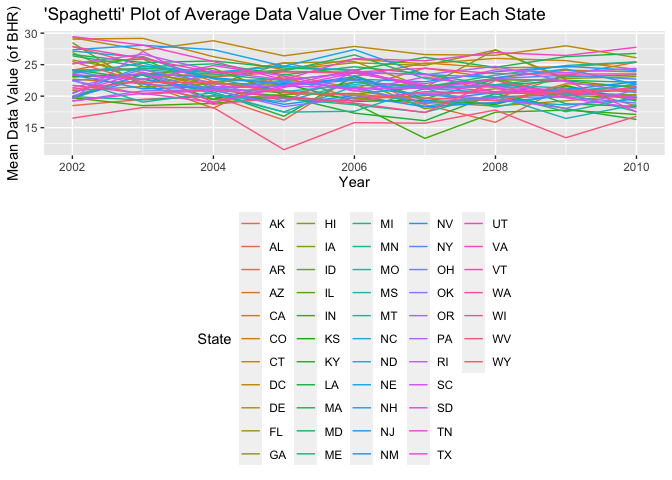
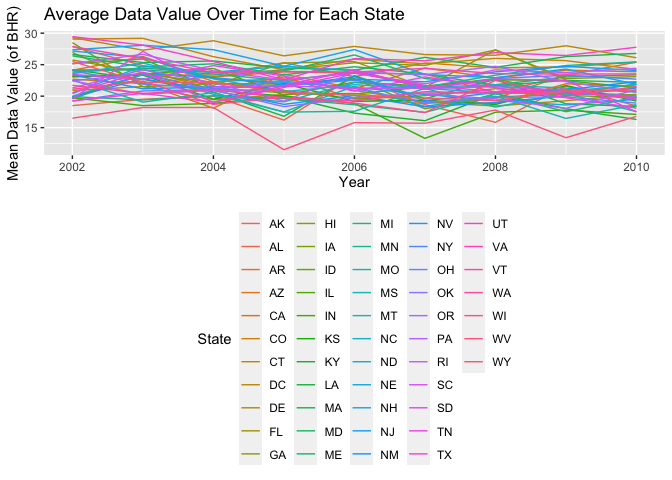
finish

Changed region(s): [[0.0625, 0.0, 0.8125, 0.0625]]

diff --git a/p8105_hw3_rx2236.md b/p8105_hw3_rx2236.md
@@ -217,7 +217,7 @@ print(county_2002)
     ## 6 PA               10
 
 The states that were observed at 7 or more locations in 2002 are: CT,
-FL, MA, NC, NJ, PA.
+FL, MA, NC, NJ, PA, which are 6 states.
 
 ``` r
 county_2010 = brfss_oh |>  
@@ -257,7 +257,8 @@ print(county_2010)
     ## 14 WA               10
 
 Similarly, we get states that were observed at 7 or more locations in
-2010: CA, CO, FL, MA, MD, NC, NE, NJ, NY, OH, PA, SC, TX, WA.
+2010: CA, CO, FL, MA, MD, NC, NE, NJ, NY, OH, PA, SC, TX, WA, which are
+14 states.
 
 Now make a “spaghetti” plot of average data value over time within a
 state.
@@ -282,7 +283,7 @@ excellent_df |>
   geom_line() + 
   theme(legend.position = "bottom") +
   labs(
-    title = "'Spaghetti' Plot of Average Data Value Over Time for Each State",
+    title = "Average Data Value Over Time for Each State",
     x = "Year",
     y = "Mean Data Value (of BHR)",
     color = "State"
@@ -292,6 +293,10 @@ excellent_df |>
     ## Warning: Removed 3 rows containing missing values (`geom_line()`).
 
 ![](p8105_hw3_rx2236_files/figure-gfm/unnamed-chunk-14-1.png)<!-- -->
+From the plot, we can see that the mean data value of BHR for each state
+fluctuates over time, and with a pattern although not quite obvious that
+at year 2005, 2007 the mean values are relatively low (decreased), and
+at year 2006 and 2008 the mean values are relatively high (increased).
 
 Now, make the two-panel plot showing for the years 2006 and 2010, the
 distribution of `data_value` for responses (“Poor” to “Excellent”) among
@@ -318,6 +323,14 @@ NY_response |>
 ```
 
 ![](p8105_hw3_rx2236_files/figure-gfm/unnamed-chunk-15-1.png)<!-- -->
+From this plot, we can see that in both years of 2006 and 2010, for
+response “poor” and “fair”, the value of behavioral health risk are low,
+while for “good” and “very good” the values are highest. However, for
+response “excellent”, the values are lower than the ones of “good” and
+“very good”.
+
+Among counties in NY state, the values for “poor” response are compact,
+and for “good” and “very good” responses, the values are more dispersed.
 
 ## Problem 3
 
